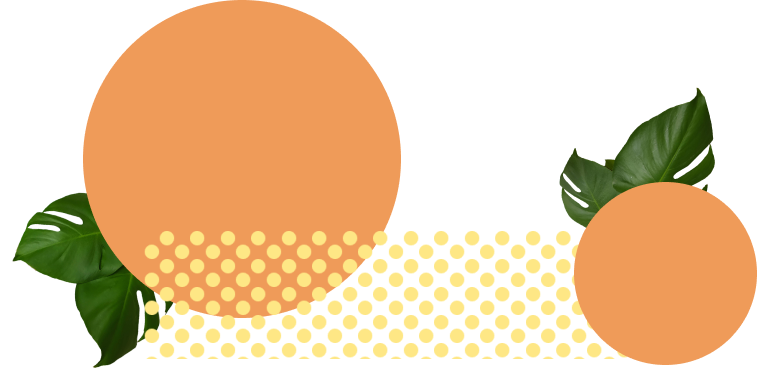
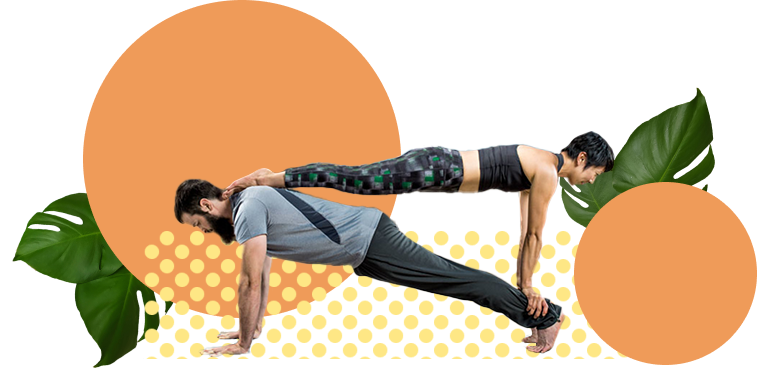
added fresh js to yoga, still not mobile

Changed region(s): [[0.2127, 0.3455, 0.8203, 0.9503]]

diff --git a/src/components/YogaDetail/yogaDetail.js b/src/components/YogaDetail/yogaDetail.js
@@ -1,10 +1,58 @@
-import React from "react";
-import { useObserver } from "mobx-react-lite";
+import React, { useState } from "react";
 import styles from "./yogaDetail.module.css";
 import Back from "../BackBlack/backblack";
 
 const YogaDetail = () => {
-  return useObserver(() => (
+  let [number = 1, setNumber] = useState(1);
+  let title = "Twin Trees (Beginner)";
+  let img = `/assets/yoga/pose1.png`;
+
+  switch (number) {
+    case (number = 0):
+      number = 1;
+      break;
+
+    case (number = 1):
+      img = "/assets/yoga/pose1.png";
+      title = "Twin Trees (Beginner)";
+      break;
+
+    case (number = 2):
+      img = "/assets/yoga/pose2.png";
+      title = "Chair Pose (Beginner)";
+      break;
+
+    case (number = 3):
+      img = "/assets/yoga/pose3.png";
+      title = "Buddy Boat (Intermediate)";
+      break;
+
+    case (number = 4):
+      img = "/assets/yoga/pose4.png";
+      title = "Square Pose (Intermediate)";
+      break;
+
+    case (number = 5):
+      img = "/assets/yoga/pose5.png";
+      title = "Plank on plank (Advanced)";
+      break;
+
+    case (number = 6):
+      img = "/assets/yoga/pose6.png";
+      title = "Square Pose (Intermediate)";
+      break;
+
+    case (number = 6):
+      img = "/assets/yoga/pose6.png";
+      title = "Square Pose (Intermediate)";
+      break;
+
+    default:
+      img = "/assets/yoga/pose1.png";
+      title = "Twin Trees (Beginner)";
+  }
+
+  return (
     <>
       <div className={styles.activity}>
         <div className={styles.back}>
@@ -12,19 +60,26 @@ const YogaDetail = () => {
         </div>
         <div className={styles.content}>
           <h1 className={styles.title}>Doe de yoga poses na!</h1>
-          <img
-            className={styles.img}
-            alt="Yoga Pose"
-            src="/assets/yoga/pose1.png"
-          />
+          <img className={styles.img} alt="Yoga Pose" src={img} />
           <div className={styles.buttonWrapper}>
-            <button className={styles.button}>Vorige pose</button>
-            <button className={styles.button}>Volgende pose</button>
+            <button
+              onClick={() => setNumber(number - 1)}
+              className={styles.button}
+            >
+              Vorige pose
+            </button>
+            <p className={styles.yogaTitle}>{title}</p>
+            <button
+              onClick={() => setNumber(number + 1)}
+              className={styles.button}
+            >
+              Volgende pose
+            </button>
           </div>
         </div>
       </div>
     </>
-  ));
+  );
 };
 
 export default YogaDetail;

diff --git a/src/components/YogaDetail/yogaDetail.module.css b/src/components/YogaDetail/yogaDetail.module.css
@@ -46,6 +46,13 @@
   grid-column: 2;
   display: flex;
   justify-content: space-between;
+  align-items: center;
+}
+
+.yogaTitle {
+  font-size: 2rem;
+  font-family: Muli, sans-serif;
+  font-weight: bold;
 }
 
 .button {
